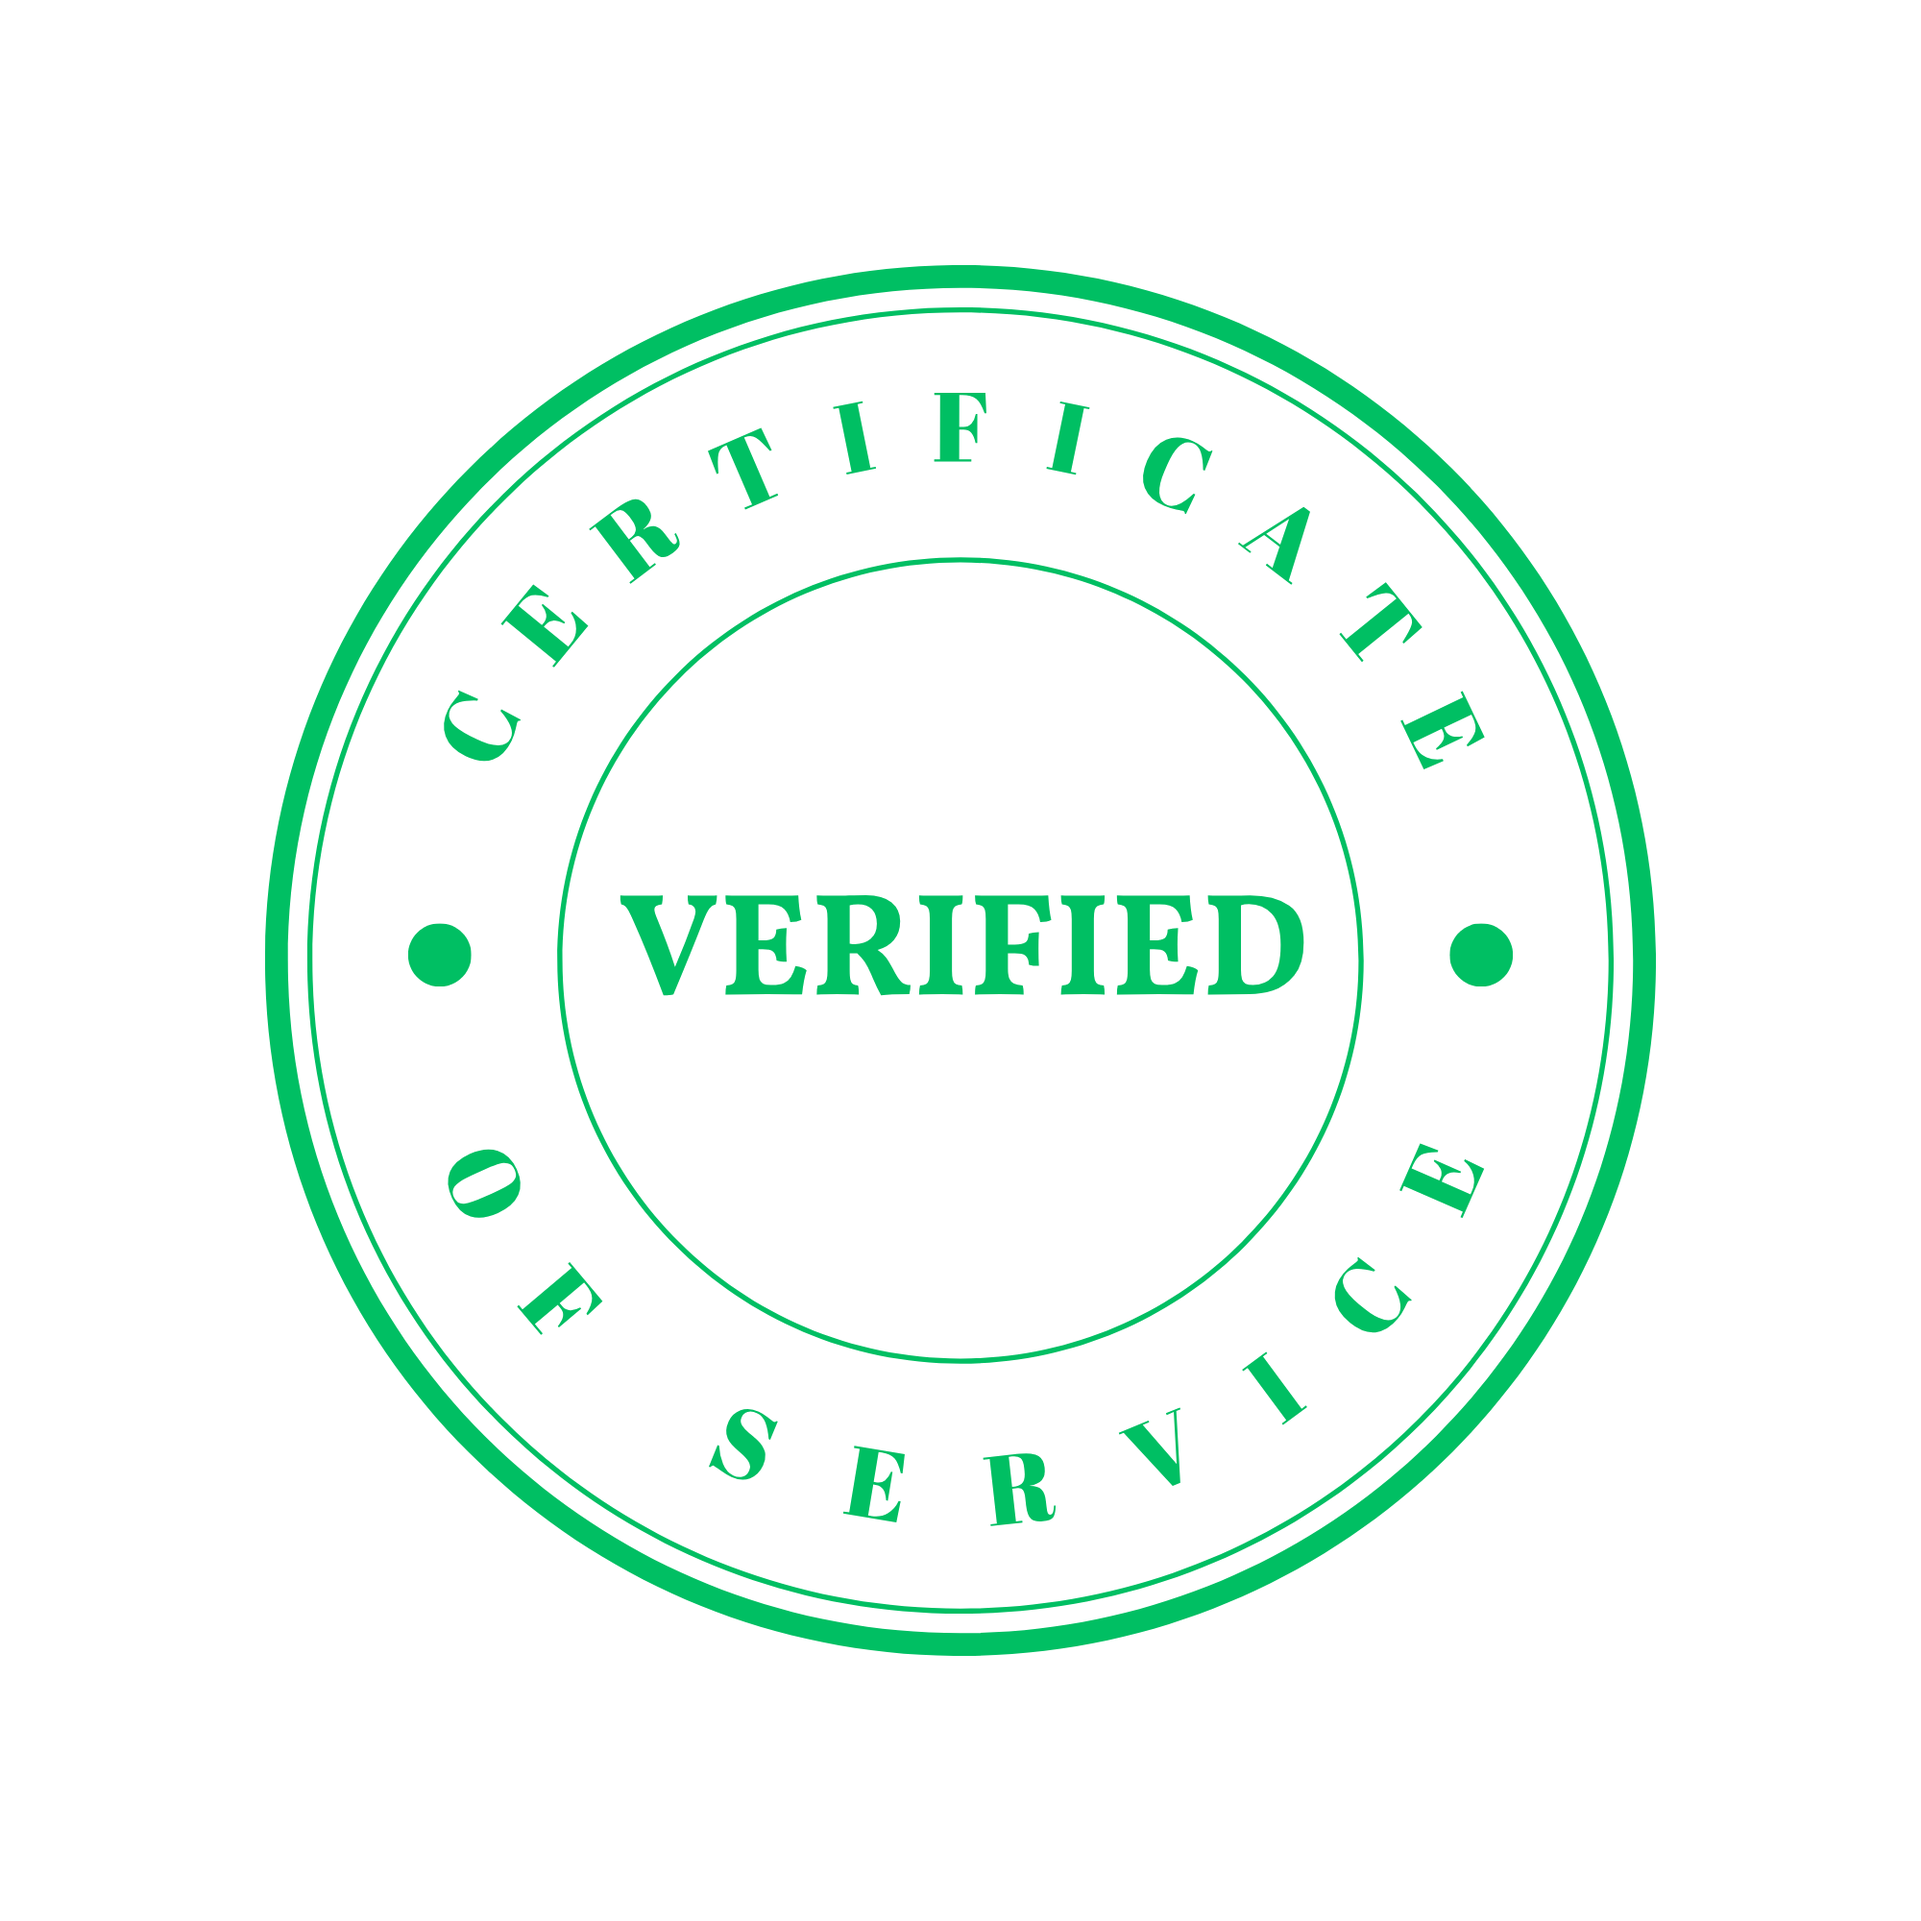
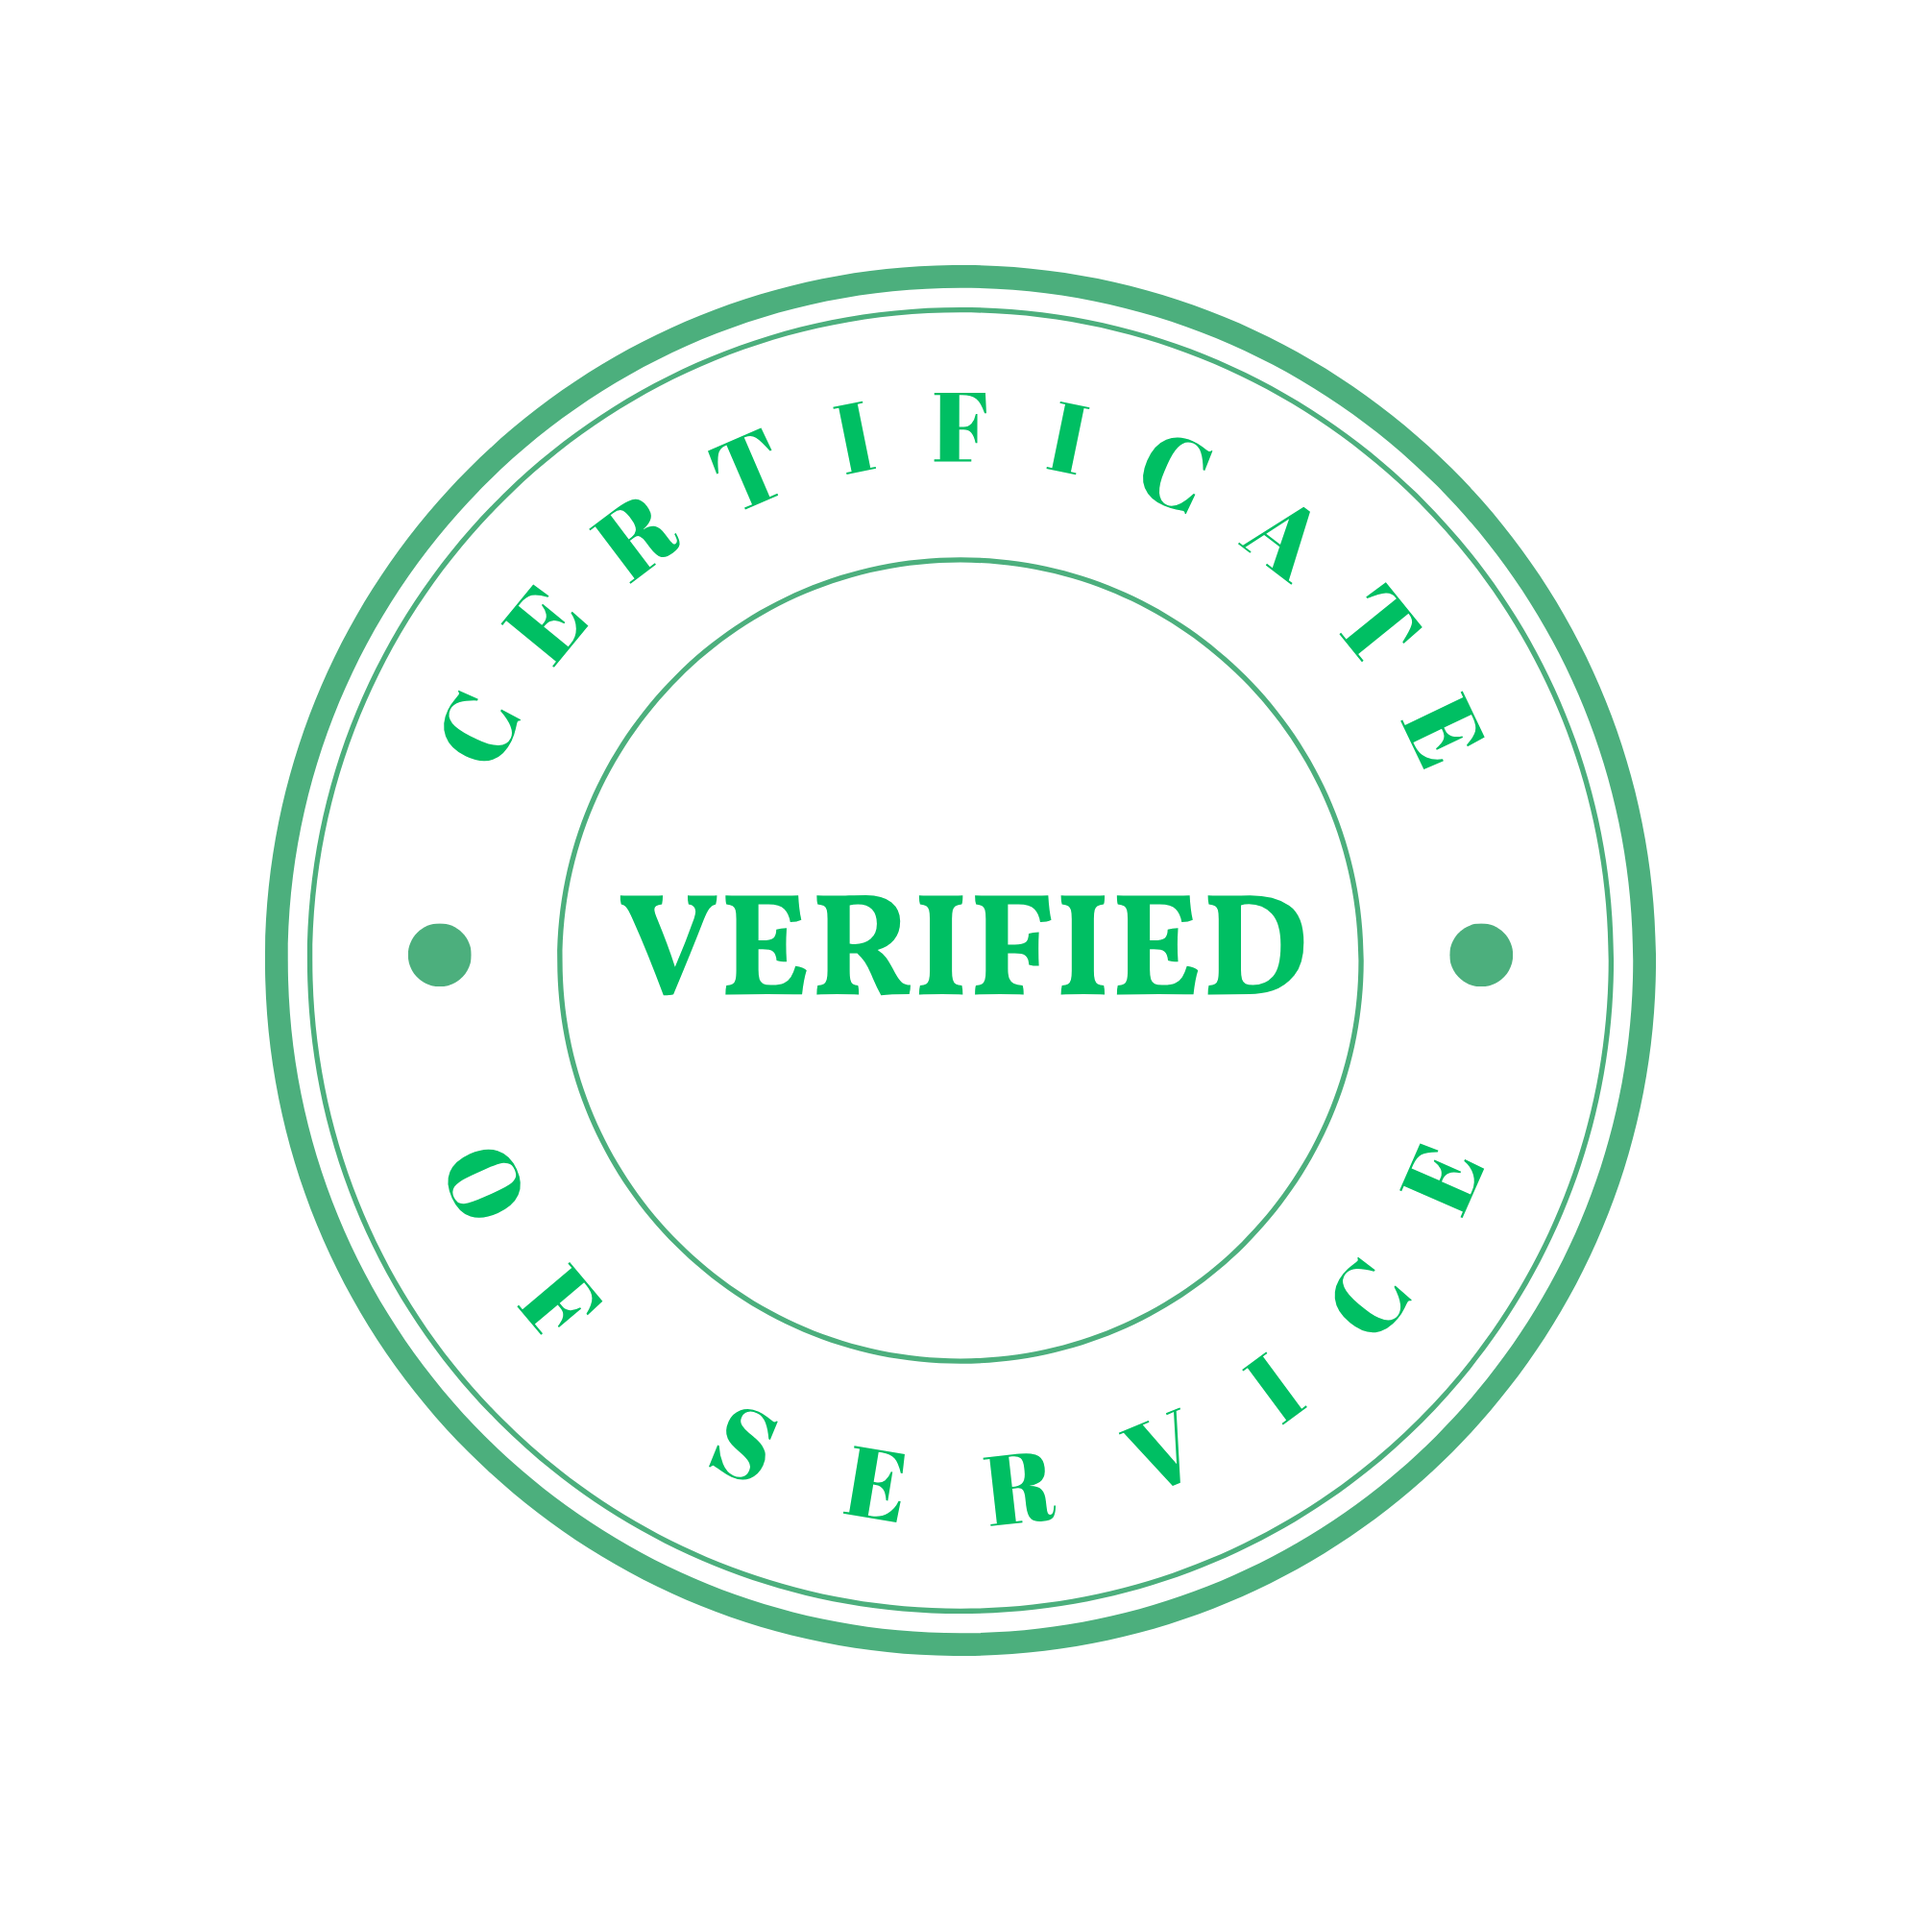
Add Tawk.to support chat widget

diff --git a/app/layout.tsx b/app/layout.tsx
@@ -1,6 +1,7 @@
 import type { Metadata } from "next";
 import { Inter } from "next/font/google";
 import "./globals.css";
+import Script from "next/script";
 
 const inter = Inter({ subsets: ["latin"] });
 
@@ -44,6 +45,21 @@ export default function RootLayout({
     <html lang="en">
       <body className={`${inter.className} bg-gray-50 text-gray-900 antialiased`}>
         {children}
+
+        {/* Tawk.to Support Chat Widget */}
+        <Script id="tawk-to" strategy="lazyOnload">
+          {`
+            var Tawk_API=Tawk_API||{}, Tawk_LoadStart=new Date();
+            (function(){
+              var s1=document.createElement("script"),s0=document.getElementsByTagName("script")[0];
+              s1.async=true;
+              s1.src='https://embed.tawk.to/6aead9b2b57ae93c322886f4/1k6im4ono';
+              s1.charset='UTF-8';
+              s1.setAttribute('crossorigin','*');
+              s0.parentNode.insertBefore(s1,s0);
+            })();
+          `}
+        </Script>
       </body>
     </html>
   );
